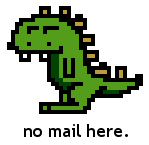
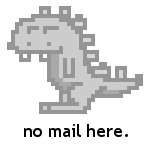
ti: make bg img more low key

diff --git a/src/modes/thread_index/thread_index_list_view.cc b/src/modes/thread_index/thread_index_list_view.cc
@@ -208,7 +208,7 @@ namespace Astroid {
         ustring::compose (
                         "#ThreadIndexListView  { background-image: url(\"%1\");"
                         "                        background-repeat: no-repeat;"
-                        "                        background-position: 50%% 50%%;"
+                        "                        background-position: 98%% 98%%;"
                         " }\n"
                         "#ThreadIndexListView  .hide_bg { background-image: none; }",
                         no_mail_img.c_str ());
